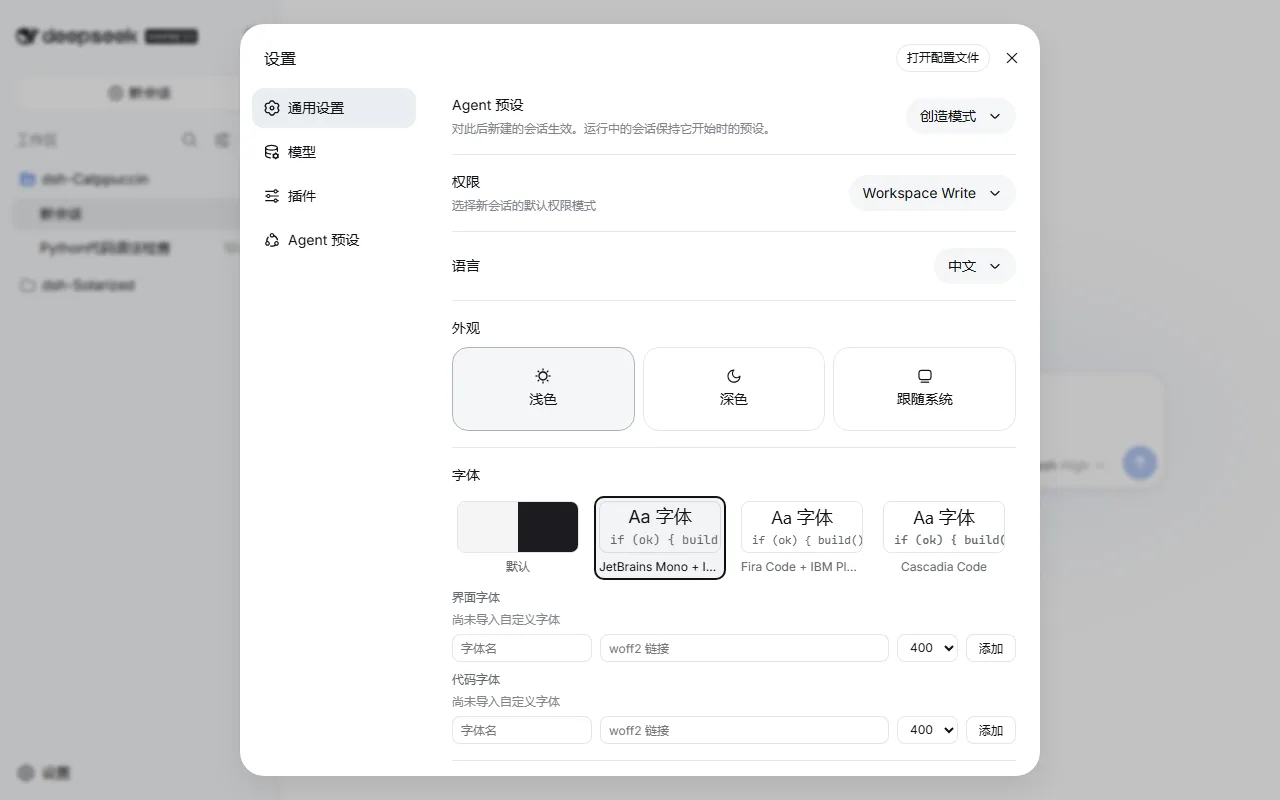
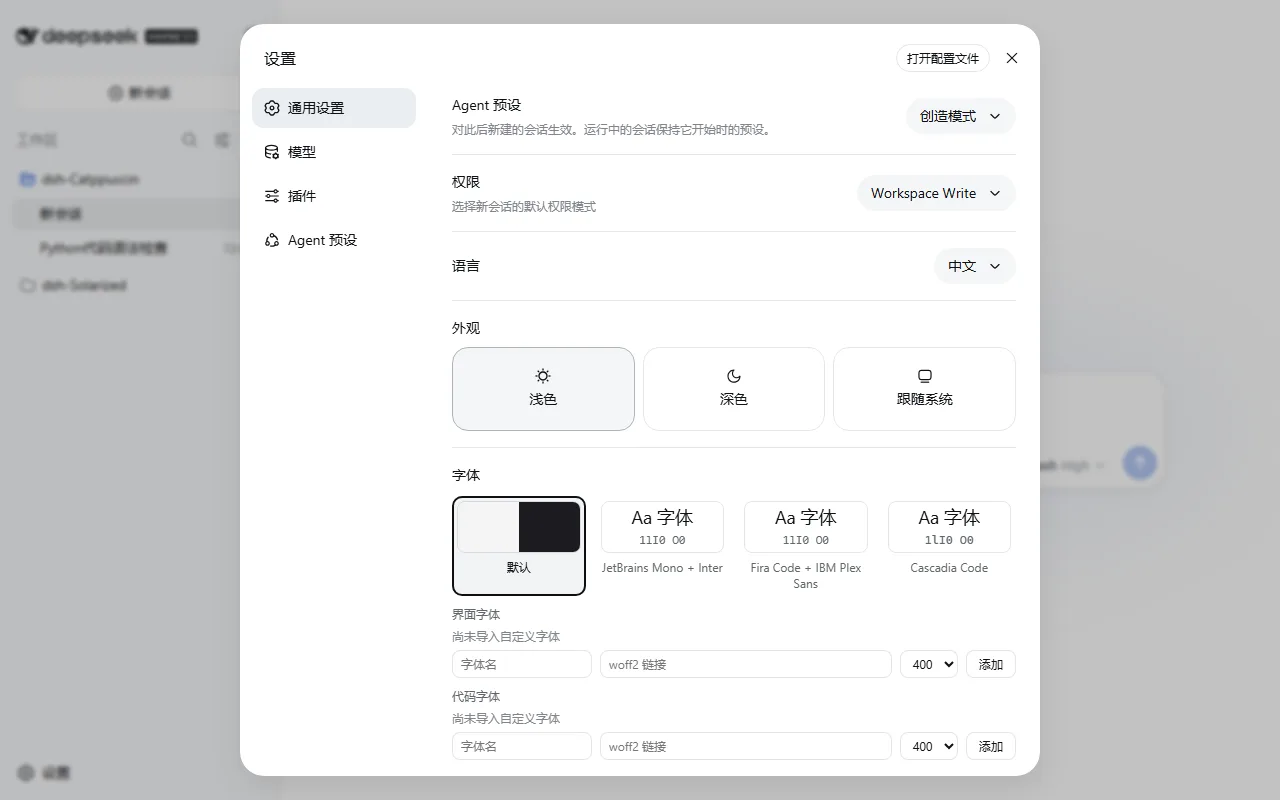
Fix font card row wrapping and preview clipping

diff --git a/lib/client.js b/lib/client.js
@@ -529,7 +529,8 @@ window.__ModuleLoader__.load({
 				flexDirection: "column",
 				alignItems: "center",
 				gap: "6px",
-				width: "132px",
+				flex: "1 1 108px",
+				minWidth: 0,
 				padding: "3px",
 				borderRadius: "10px",
 				// longhand on purpose: the shorthand leaves borderColor to
@@ -551,9 +552,8 @@ window.__ModuleLoader__.load({
 				color: "var(--dsw-alias-label-secondary)",
 				fontSize: "12px",
 				lineHeight: "16px",
-				whiteSpace: "nowrap",
+				textAlign: "center",
 				overflow: "hidden",
-				textOverflow: "ellipsis",
 				maxWidth: "100%"
 			},
 			cardLabelSelected: {
@@ -690,7 +690,7 @@ window.__ModuleLoader__.load({
 					}),
 					(0, react_jsx_runtime.jsx)("div", {
 						style: { ...styles.swatchCode, fontFamily: codeStack },
-						children: "if (ok) { build(); }"
+						children: "1lI0 O0"
 					})
 				]
 			});

diff --git a/lib/client.tpl.js b/lib/client.tpl.js
@@ -373,7 +373,8 @@ window.__ModuleLoader__.load({
 				flexDirection: "column",
 				alignItems: "center",
 				gap: "6px",
-				width: "132px",
+				flex: "1 1 108px",
+				minWidth: 0,
 				padding: "3px",
 				borderRadius: "10px",
 				// longhand on purpose: the shorthand leaves borderColor to
@@ -395,9 +396,8 @@ window.__ModuleLoader__.load({
 				color: "var(--dsw-alias-label-secondary)",
 				fontSize: "12px",
 				lineHeight: "16px",
-				whiteSpace: "nowrap",
+				textAlign: "center",
 				overflow: "hidden",
-				textOverflow: "ellipsis",
 				maxWidth: "100%"
 			},
 			cardLabelSelected: {
@@ -534,7 +534,7 @@ window.__ModuleLoader__.load({
 					}),
 					(0, react_jsx_runtime.jsx)("div", {
 						style: { ...styles.swatchCode, fontFamily: codeStack },
-						children: "if (ok) { build(); }"
+						children: "1lI0 O0"
 					})
 				]
 			});
